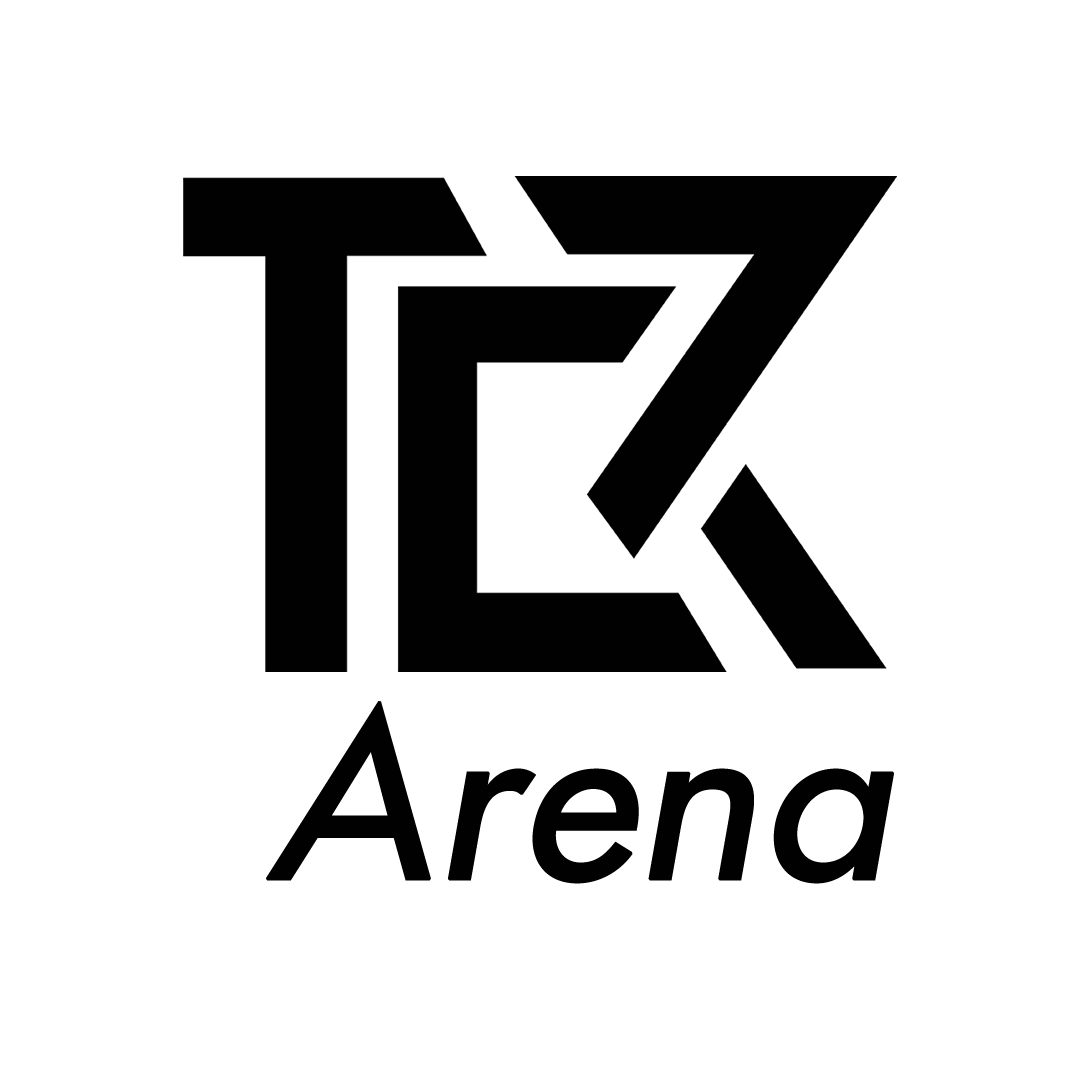
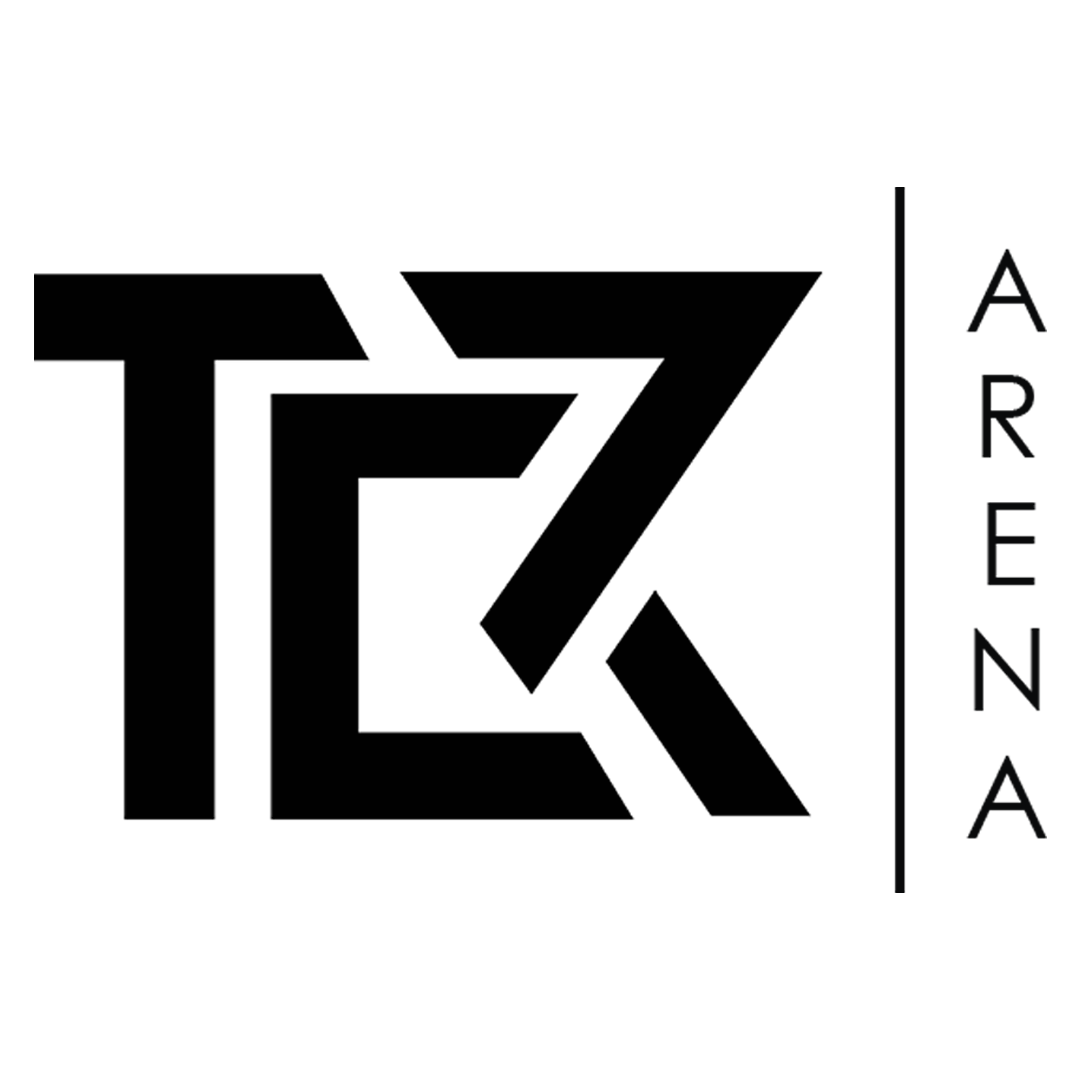
modified

diff --git a/templates/index.html b/templates/index.html
@@ -50,7 +50,7 @@
     nav {
       display: flex;
       flex-wrap: wrap;
-      gap: 6.4rem;
+      gap: 5.5rem;
       justify-content: center;
       flex-grow: 1;
     }
@@ -729,6 +729,7 @@
         <a href="{{ url_for('blog', category='Sports') }}">Sports</a>
         <a href="{{ url_for('blog', category='Entertainment') }}">Entertainment</a>
         <a href="{{ url_for('memorabilia') }}">Collectible Stories</a>
+        <a href="#">Collectible Community</a>
         <a href="https://www.thecollectroom.com/">Shop</a>
         <a href="{{ url_for('all_videos') }}">TCR Videos</a>
       </nav>
@@ -736,6 +737,48 @@
   </header>
   
   <!-- LIVE SCORES SECTION -->
+  <div id="live-scores-container" style="background:#222; color:#eee; padding: 10px; text-align:center;">
+    <h5>Live Soccer Scores</h5>
+    <ul id="live-scores-list" style="list-style:none; padding-left:0;">
+        <li>Loading live scores...</li>
+      </ul>
+  </div>
+ 
+  <script>
+  async function fetchLiveScores() {
+      try {
+          const response = await fetch('/live-scores');
+          const scores = await response.json();
+
+          const list = document.getElementById('live-scores-list');
+          list.innerHTML = '';
+
+          if (scores.error) {
+              list.innerHTML = `<li>Error loading live scores: ${scores.error}</li>`;
+              return;
+          }
+
+          if (scores.length === 0) {
+              list.innerHTML = '<li>No live matches at the moment.</li>';
+              return;
+          }
+
+          scores.forEach(score => {
+              const li = document.createElement('li');
+              li.textContent = `[${score.country} - ${score.league}] ${score.teams} — ${score.score} (${score.status})`;
+              list.appendChild(li);
+          });
+      } catch (error) {
+          const list = document.getElementById('live-scores-list');
+          list.innerHTML = `<li>Failed to fetch live scores.</li>`;
+          console.error('Error fetching live scores:', error);
+      }
+  }
+
+  // Initial fetch and refresh every 60 seconds
+  fetchLiveScores();
+  setInterval(fetchLiveScores, 60000);
+  </script>
 
 
   <!-- Blog Section -->

diff --git a/templates/privacy.html b/templates/privacy.html
@@ -72,12 +72,6 @@
       font-family: 'Outfit', sans-serif;
     }
 
-    /* p {
-      margin-top: 0.8rem;
-      font-size: 1rem;
-      color: #333;
-    } */
-
     ul {
       margin-top: 0.8rem;
       margin-left: 1.5rem;
@@ -92,21 +86,6 @@
       font-weight: 600;
     }
 
-    /* footer {
-      background: #000;
-      color: #fff;
-      text-align: center;
-      padding: 2rem 1rem;
-      margin-top: 2rem;
-      font-size: 0.9rem;
-      font-family: 'Roboto', sans-serif;
-    }
-
-    footer a {
-      color: #ffd700;
-      text-decoration: underline;
-      margin: 0 0.5rem;
-    } */
     footer {
       background: #000;
       color: #fff;

diff --git a/templates/all_videos.html b/templates/all_videos.html
@@ -120,7 +120,7 @@
   <!-- Logo -->
   <div class="logo-banner">
     <a href="{{ url_for('home') }}">
-      <img src="{{ url_for('static', filename='arena.png') }}" alt="TCR Arena Logo" />
+      <img src="{{ url_for('static', filename='TCR arena black.png') }}" alt="TCR Arena Logo" />
     </a>
   </div>
 

diff --git a/app.py b/app.py
@@ -34,7 +34,9 @@ except OSError:
 # db = SQLAlchemy(app)
 # migrate = Migrate(app, db)
 
-
+app.config['SQLALCHEMY_DATABASE_URI'] = "postgresql://tcrarena_db_user:ZLwPUckLOzUHE8Y07wQOTM2oPF7ooOkd@dpg-d25gn52li9vc73f9m400-a.singapore-postgres.render.com/tcrarena_db"
+app.config['SQLALCHEMY_TRACK_MODIFICATIONS'] = False
+app.config['SECRET_KEY'] = 'this-should-be-a-secret-key'
 db.init_app(app)
 migrate = Migrate(app, db)
 
@@ -364,6 +366,45 @@ admin.add_view(YouTubeVideoAdmin(YouTubeVideo, db.session))
 
 
 # Routes
+
+@app.route('/live-scores')
+def live_scores():
+    api_key = 'c5ca24a68253418f9c95e742090894bf'
+
+    if not api_key:
+        return jsonify({"error": "API key not configured"}), 500
+
+    url = "https://api.football-data.org/v4/matches?status=LIVE"
+    headers = {
+        'X-Auth-Token': api_key
+    }
+
+    try:
+        response = requests.get(url, headers=headers, timeout=10)
+        response.raise_for_status()
+        data = response.json()
+
+        live_matches = []
+        matches = data.get('matches', [])
+
+        if not matches:
+            return jsonify([])  # No live matches now
+
+        for match in matches:
+            live_matches.append({
+                "competition": match['competition']['name'],
+                "home_team": match['homeTeam']['name'],
+                "away_team": match['awayTeam']['name'],
+                "score": f"{match['score']['fullTime']['home']} - {match['score']['fullTime']['away']}",
+                "status": match['status'],
+                "minute": match.get('minute', 'N/A')
+            })
+
+        return jsonify(live_matches)
+
+    except requests.RequestException as e:
+        return jsonify({"error": "Failed to fetch live scores", "details": str(e)}), 500
+
 @app.route('/')
 def home():
     news_items = News.query.order_by(News.id.desc()).limit(6).all()
@@ -394,19 +435,6 @@ def login():
 import requests
 from flask import jsonify
 
-@app.route('/api/live-scores')
-def live_scores():
-    url = "https://www.scorebat.com/video-api/v3/"
-    try:
-        response = requests.get(url)
-        if response.status_code == 200 and response.text.strip():
-            return jsonify(response.json())
-        else:
-            return jsonify({'error': 'Empty or invalid API response.'})
-    except Exception as e:
-        return jsonify({'error': str(e)})
-
-
 @app.route('/logout')
 @login_required
 def logout():
@@ -416,10 +444,19 @@ def logout():
 
 
 # New route to show full news article
+# @app.route('/news/<int:news_id>')
+# def view_news(news_id):
+#     if not session.get('joined'):
+#         return redirect(url_for('join', next=request.path))
+
+#     news = News.query.get_or_404(news_id)
+#     suggestions = News.query.filter(News.id != news_id, News.category == news.category).order_by(News.id.desc()).limit(3).all()
+#     return render_template('news_detail.html', news=news, suggestions=suggestions)
 @app.route('/news/<int:news_id>')
 def view_news(news_id):
-    if not session.get('joined'):
-        return redirect(url_for('join', next=request.path))
+    # Remove this condition ↓↓↓
+    # if not session.get('joined'):
+    #     return redirect(url_for('join', next=request.path))
 
     news = News.query.get_or_404(news_id)
     suggestions = News.query.filter(News.id != news_id, News.category == news.category).order_by(News.id.desc()).limit(3).all()
@@ -581,7 +618,9 @@ if __name__ == '__main__':
     if len(sys.argv) > 1 and sys.argv[1].lower() == "createadmin":
         create_admin()
     else:
-        app.run(debug=True)
+        # app.run(debug=True)
+        app.run(host='0.0.0.0', port=5002, debug=True, use_debugger=False, use_reloader=True)
+
 
 
 
